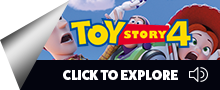
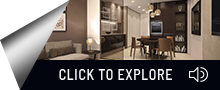
fix background, add poster and paper image

diff --git a/revi/desktop.js b/revi/desktop.js
@@ -51,13 +51,14 @@ var removeAllListener = function() {
 var playerOut = function() {
 	var video_wrapper = document.getElementById('fluid_video_wrapper_video-id');
 	// si no ha terminado la transicion, vuelve al tamaño inicial
-	/* 	video_wrapper.style.width = width;
+	video_wrapper.style.width = width;
 	video_wrapper.style.height = height;
 	video_wrapper.style.marginTop = '0px';
-	video_wrapper.style.marginLeft = '0px'; */
+	video_wrapper.style.marginLeft = '0px';
 };
 
 var playerIn = function() {
+	document.getElementById('paper').style.display = 'none';
 	video.muteToggle('video-id', true);
 	document.getElementById('video-id_fluid_controls_container').style.display = 'block';
 	var video_wrapper = document.getElementById('fluid_video_wrapper_video-id');
@@ -95,6 +96,26 @@ var makeUnmuteButton = function() {
 	initial_play.insertBefore(unmuteButton, initial_play.firstChild);
 
 	unmuteButton.addEventListener('click', playerIn);
+};
+
+var makePaper = function() {
+	var paper = document.createElement('img');
+	paper.src = '' + base_url + '/assets/paper.png';
+	paper.style = 'position: absolute;bottom: 0px;right: 0px;z-index: 99;cursor:pointer';
+	paper.id = 'paper';
+	paper.addEventListener('click', function() {
+		document.getElementById('paper').style.display = 'none';
+		video.muteToggle('video-id', true);
+		document.getElementById('video-id_fluid_controls_container').style.display = 'block';
+		video.play();
+		var video_wrapper = document.getElementById('fluid_video_wrapper_video-id');
+		video_wrapper.style.width = newWidth;
+		video_wrapper.style.height = newHeight;
+		video_wrapper.style.marginTop = marginTop;
+		video_wrapper.style.marginLeft = marginLeft;
+		removeAllListener();
+	});
+	document.getElementById('fluid_video_wrapper_video-id').appendChild(paper);
 };
 
 var track = function(params, action) {
@@ -180,7 +201,8 @@ var options = {
 
 			playOnClick();
 
-			makeUnmuteButton();
+			// makeUnmuteButton();
+			makePaper();
 
 			// obtenemos el contenedor del reproductor
 			var video_wrapper = document.getElementById('fluid_video_wrapper_video-id');
@@ -258,6 +280,7 @@ var options = {
 					removeIfExists(['synopsis', 'visitPageButton', 'date']);
 
 					document.getElementById('fluid_video_wrapper_video-id').style.display = 'block';
+					document.getElementById('paper').style.display = 'block';
 
 					playerOut();
 
@@ -272,6 +295,7 @@ var options = {
 			video_wrapper.addEventListener('transitionend', function(event) {
 				if (event.propertyName === 'width') {
 					if (event.elapsedTime <= 3 && video_wrapper.style.width === width) {
+						document.getElementById('paper').style.display = 'block';
 					}
 				}
 			});
